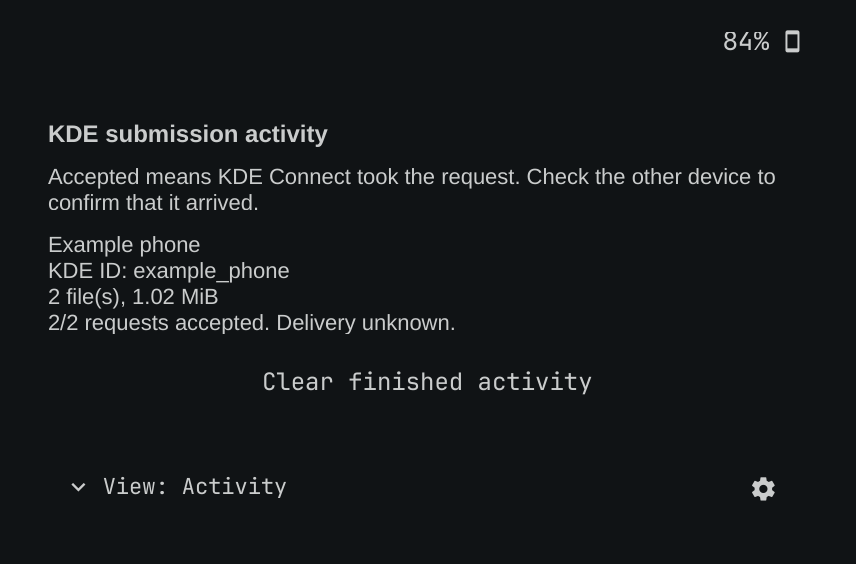
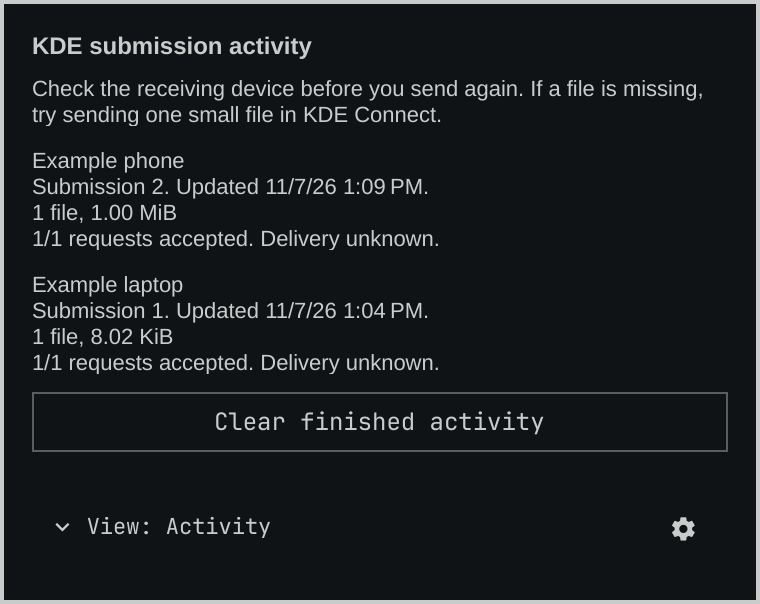
[docs] Make README task instructions easier to follow (#71)
* [docs] Make README task instructions easier to follow

* [docs] Link migration steps and clarify cancellation

* [docs] Put migration before the fresh install command

* [docs] Apply the Issue 9 review to the README

* [docs] Complete sharing steps and refresh Activity examples

* [docs] Show how to open the file chooser

---------

Changed region(s): [[0.0, 0.0, 1.0, 1.0], [0.0605, 0.844, 0.3632, 0.9043], [0.8776, 0.844, 0.9079, 0.9043]]

diff --git a/README.md b/README.md
@@ -1,171 +1,218 @@
 # Omaconnect KDE Plus
 
 Use [KDE Connect](https://kdeconnect.kde.org/) from the
-[Omarchy](https://omarchy.org/) bar. Send files, browse shared phone folders
-and put the quick actions you use most within reach.
+[Omarchy](https://omarchy.org/) bar. Send files. Open folders that your phone
+shares. Select the Quick actions for the bar menu.
 
 Omaconnect KDE Plus is a fork of
 [Jitendra Dara’s OmaConnect](https://github.com/jitendradara12/omaconnect).
-KDE Connect handles pairing and device communication.
+KDE Connect pairs devices and sends data between them.
 
-<img src="preview.png" width="380" alt="Saved screenshot review with an example phone and explicit Send">
+<img src="preview.png" width="380" alt="The Send window shows an example phone and the Send files button">
 
-Example devices, files and media are used in the screenshots.
-See the [screenshot gallery](docs/HELP.md#screenshots) for the open device dropdown,
-phone folders, the layout editor, Send, cancellation, activity, media and all four
-settings domains.
+The screenshots show example devices, files and media.
+Refer to the [screenshot gallery](docs/HELP.md#screenshots) for examples of the
+device list, file sharing, media controls, layout editor and settings.
 
 [![Functional checks](https://github.com/ryan-winkler/omaconnect-kde-plus/actions/workflows/validate.yml/badge.svg)](https://github.com/ryan-winkler/omaconnect-kde-plus/actions/workflows/validate.yml)
 [![CodeQL](https://github.com/ryan-winkler/omaconnect-kde-plus/actions/workflows/codeql.yml/badge.svg)](https://github.com/ryan-winkler/omaconnect-kde-plus/actions/workflows/codeql.yml)
 
 ## Install
 
-**Existing Plus through 0.1.2:** follow the [ID migration guide](docs/INSTALL.md#former-uppercase-development-id)
-before this fresh-install command. This preserves placement and settings and
-avoids a second active Plus copy.
+If you have Plus 0.1.2 or a version before 0.1.2, read the
+[ID migration guide](docs/INSTALL.md#former-uppercase-development-id) before
+you add Plus. This procedure keeps the bar position and the settings. It
+prevents a second active copy of Plus.
+
+If you have OmaConnect, read the
+[guide for an installed copy](docs/INSTALL.md#move-from-an-existing-installation)
+before you add Plus. The guide shows how to add Plus without the `--enable`
+option.
+
+For a new installation, install the packages.
 
 ```bash
 omarchy pkg add kdeconnect python python-gobject
+```
+
+Then use this command to add and enable Plus.
+
+```bash
 omarchy plugin add https://github.com/ryan-winkler/omaconnect-kde-plus.git --enable
 ```
 
-Open the new bar icon. If you need to pair a device, select **Pair in KDE Connect**
-or **Open KDE Connect**. If neither button is visible, open **KDE Connect** from
-the application launcher. Compare the verification key on both devices before accepting.
-Moving from the original OmaConnect? Read [install, update and recovery](docs/INSTALL.md)
-first and add Plus without `--enable`. The plugin ID is `omaconnect.plus`.
+Select the Plus icon in the bar. To pair a device, select **Pair in KDE Connect**
+or **Open KDE Connect**. If you cannot see these buttons, open **KDE Connect**
+from the application launcher. Compare the verification keys on the two
+devices. If the keys are the same, accept the pairing request.
+
+The Plus plugin ID is `omaconnect.plus`.
 
 ## Features
 
-- **Files.** Choose up to 100 local files in the desktop chooser. Check the
-  files and recipient, then select **Send files**. In **Plus settings → Quick
-  actions**, turn off **Review files before Send** to submit when you confirm
-  the selection in the chooser. Turn off **Use desktop file chooser** to use the
-  searchable Omarchy recent-file menu and **Image previews…**. Drops on Devices,
-  the bar icon or Send window always require review and use Copy.
-- **Phone folders:** select **Browse phone files** to open folders shared by KDE
-  Connect in your default file manager. Add it to Quick actions for direct access
-  from Devices. If KDE Connect reports that storage is unmounted, select
-  **Phone file settings in KDE** or retry **Browse phone files**. If the button
-  cannot open plugin settings, open KDE Connect settings manually. Several
-  advertised folders show a choice.
-- **Screenshots:** save a capture with Omarchy Screenshot, then use
-  **Review saved screenshot** to select one PNG. Check the file and recipient,
-  then select **Send files**. The action always opens review.
-- **Cancel:** stop pending file work from any daily view or the Send window.
-  After native acceptance, use KDE Connect's LAN transfer progress Cancel.
-  Bluetooth cancellation is not exposed by the current native sharing API.
-- **Honest activity:** “Request accepted” means KDE accepted the transfer;
-  delivery stays unknown. A batch keeps its reviewed recipient.
-- **Desktop notices:** see final file-request outcomes while Plus is closed.
-  Device names are omitted by default; enable them separately in Quick actions
-  settings. Native notification history and Do Not Disturb remain with Omarchy.
-- **Quick actions:** add, remove and reorder reviewed shortcuts, including media
-  transport, native KDE Connect routes and an optional Quick Share shortcut.
-- **Appearance:** choose a phone, computer, theme icon, symbol or local PNG/SVG,
-  and an alias per device. Preview before Apply.
-- **Daily layout:** a compact View menu, top or bottom placement, and optional
-  Send and Activity shortcuts. Switch devices in one dropdown. Collapse daily
-  sections. Open **Devices → Edit layout** to change visibility and position on
-  the actual sections, including hidden ones. Every view stays available.
-- **Language and launcher:** Plus follows Omarchy's language and reading direction.
-  Missing Plus text falls back to English. The optional
+- **Files.** Select the recipient in Devices. Expand **File sharing** or open
+  **Send**. Select **Choose files**. In the default settings, select up to
+  100 local files in the desktop file chooser. In the Send window, make sure
+  that the files and the recipient are correct. Select **Send files**.
+  If you set **Review files before Send** to Off, make sure that the recipient
+  is correct before you open the file chooser. Plus sends the files when you
+  accept the selection in the chooser. To use the Omarchy recent-file menu and
+  **Image previews…**, set **Use desktop file chooser** to Off. Both options
+  are in **Plus settings → Quick actions**.
+  You can drag and drop files on Devices, the bar icon or the Send window.
+  Plus always shows a review for dropped files. The source files stay in
+  the same locations.
+- **Phone folders.** Select **Browse phone files** to open folders from your
+  phone in the default file manager. To use the shortcut from Devices, add it to
+  **Quick actions**. If the phone shares more than one folder, Plus shows a list.
+  If Plus shows that the storage is unmounted, select **Phone file settings in KDE ↗**.
+  You can also select **Browse phone files** again. If the button cannot open
+  the settings, open the settings in KDE Connect. Refer to
+  [Browse phone files](docs/HELP.md#browse-phone-files) for the package and
+  storage instructions.
+- **Screenshots.** Add **Review saved screenshot** to **Quick actions**. Save an
+  image with Omarchy Screenshot. In Devices, select **Review saved screenshot**.
+  Select one PNG file. In the Send window, make sure that the file and the
+  recipient are correct. Select **Send files**.
+- **Cancel.** Use **Cancel** to stop queued file requests from a daily view or
+  the Send window. If the request was active when you selected **Cancel**, the
+  receiving device can receive the file. If KDE Connect shows a **Cancel**
+  button for the LAN transfer, select it. Refer to the
+  [task guide](docs/HELP.md) for the Bluetooth limits.
+- **Activity.** Activity shows **Request accepted** when KDE Connect accepts
+  the request. Make sure that the receiving device has the file. All file
+  requests in a batch use the same recipient.
+- **Desktop notices.** Plus shows file request results while the popup, Send
+  window and image preview are closed. In the default settings, the notices
+  show the results without device names. To show the names, enable the option in
+  **Quick actions**. Omarchy controls notification history and Do Not Disturb.
+- **Quick actions.** Add or remove shortcuts. Move shortcuts to change their
+  sequence. The shortcuts include media controls, KDE Connect functions and
+  an optional Quick Share shortcut.
+- **Appearance.** Select a phone icon, computer icon, theme icon, symbol or
+  local PNG or SVG file. You can set an alias for each device. See the preview.
+  To keep the change, select **Apply**.
+- **Daily layout.** You can put the View menu at the top or at the bottom.
+  You can add Send and Activity shortcuts. Select the device from the device
+  list. You can collapse the sections in Devices. Open **Devices → Edit layout**
+  to show, hide or move a section. You can move a hidden section.
+  You can open all views from the View menu.
+- **Language and launcher.** Plus uses the Omarchy language and reading
+  direction. If a Plus translation is missing, Plus shows the text in English.
+  The optional
   [application launcher](docs/INSTALL.md#optional-application-launcher)
   opens Devices, Send files or Activity.
-- **Settings:** Appearance, Connections, Quick actions and Device features, with
-  short help next to each control. Sections can be hidden or collapsed.
-- **Device features:** search installed native modules, change their local On/Off
-  state with readback, and open their native configuration forms. KDE Connect keeps
-  pairing, battery, notifications,
-  file browsing, media playback and player switching, remote commands, clipboard,
-  text, SMS and remote input.
-- **Network access:** optional Tailscale, MikroTik Back to Home and WireGuard
-  sections with short guides. Tailscale and WireGuard open their own panel or
-  profiles; Plus never connects a VPN itself. An optional card shows your Back
-  to Home helper's Automatic / On / Off mode and can ask that helper to change it.
-- **Private addresses:** approve LAN or VPN addresses per device, with opt-in
-  rediscovery. Existing KDE addresses are preserved.
-- **Syncthing notes:** optionally record that a KDE device and a Syncthing ID are
-  the same machine, pause or resume syncing with it, and open the existing Syncshell
-  panel.
+- **Settings.** The Plus settings have four sections. Each control has help.
+  - Appearance
+  - Connections
+  - Quick actions
+  - Device features
+- **Device features.** Find an installed KDE Connect module. Set it to On or
+  Off. Plus shows the state from KDE Connect. To configure the module, open
+  its native settings. KDE Connect supplies pairing, battery information,
+  notifications, file browsing and media controls, including player switching.
+  It also supplies remote commands, clipboard, text, SMS and remote input.
+- **Network access.** The optional Tailscale, MikroTik Back to Home and
+  WireGuard sections include guides. Select **Open Tailscale panel** for
+  Tailscale. Select **Open WireGuard profiles** for WireGuard.
+  These two controls do not start or stop VPN connections.
+  The optional Back to Home card shows the mode of its helper. You can use
+  the card to set the helper to Automatic, On or Off. The helper controls the
+  Back to Home connection.
+- **Private addresses.** Use **Saved addresses** to give approval for a LAN
+  or VPN address for each device. You can enable rediscovery. Plus keeps the
+  addresses that KDE Connect has before you save a new address.
+- **Syncthing notes.** You can add a local note with the KDE Connect device and
+  the Syncthing ID for the same computer. You can pause synchronization with
+  that computer. You can start synchronization with that computer again.
+  You can open the Syncshell panel.
 
-Read the [task guide](docs/HELP.md) for every control.
+Read the [task guide](docs/HELP.md) for information about the controls.
 
 ## Screenshots
 
-Select an image to view it at full size. The [complete gallery](docs/HELP.md#screenshots)
-also covers appearance, icon choices, section ordering, connections and native features.
+Select an image to see it at full size. The [gallery](docs/HELP.md#screenshots)
+also shows appearance, icon options, section sequence, connections and native
+device functions.
 
-| Open device dropdown | File review and persistent Send window |
+| Device list | File review in the Send window |
 | --- | --- |
-| [![Bar icon and opened device dropdown showing connected, offline and unpaired example devices](docs/screenshots/bar-dropdown.png)](docs/screenshots/bar-dropdown.png) | [![Persistent Send window reviewing two example files for the captured recipient](docs/screenshots/send-review.png)](docs/screenshots/send-review.png) |
+| [![The bar icon and the device list show connected, offline and unpaired devices](docs/screenshots/bar-dropdown.png)](docs/screenshots/bar-dropdown.png) | [![The Send window shows two files and the recipient](docs/screenshots/send-review.png)](docs/screenshots/send-review.png) |
 
-| Pending submission and Cancel | Quick actions sharing preferences |
+| Pending file request and Cancel | File sharing settings |
 | --- | --- |
-| [![In-progress file submission with Cancel and the persistent Cancel pending files control](docs/screenshots/pending-cancel.png)](docs/screenshots/pending-cancel.png) | [![Quick actions settings scrolled to desktop chooser and review-before-Send preferences](docs/screenshots/sharing-preferences.png)](docs/screenshots/sharing-preferences.png) |
+| [![A pending file request shows Cancel and Cancel pending files](docs/screenshots/pending-cancel.png)](docs/screenshots/pending-cancel.png) | [![Quick actions settings show the desktop file chooser and review options](docs/screenshots/sharing-preferences.png)](docs/screenshots/sharing-preferences.png) |
 
-| Recent files with type icons | Guided image previews |
+| Recent files with file type icons | Image previews |
 | --- | --- |
-| [![Native recent-file menu with file-type icons and an Image previews entry](docs/screenshots/recent-file-menu.png)](docs/screenshots/recent-file-menu.png) | [![Guided image preview with recipient, filename, Back and explicit Send or Review](docs/screenshots/image-previews.png)](docs/screenshots/image-previews.png) |
+| [![The Omarchy recent-file menu shows file type icons and the Image previews option](docs/screenshots/recent-file-menu.png)](docs/screenshots/recent-file-menu.png) | [![The image preview shows the recipient, file name, Back, and Send image or Review image](docs/screenshots/image-previews.png)](docs/screenshots/image-previews.png) |
 
 | Review a saved screenshot | Read the request result |
 | --- | --- |
-| [![Saved screenshot review with the selected recipient, PNG filename, Send files and Cancel](preview.png)](preview.png) | [![Activity shows one request accepted and delivery unknown](docs/screenshots/screenshot-activity.png)](docs/screenshots/screenshot-activity.png) |
+| [![The Send window shows a recipient, a PNG file, Send files and Cancel](preview.png)](preview.png) | [![Activity shows one accepted request and unknown delivery](docs/screenshots/screenshot-activity.png)](docs/screenshots/screenshot-activity.png) |
 
 ## Why Plus?
 
-OmaConnect already covers pairing, battery, clipboard, SMS, media and remote
-commands. Keep it if its workflow suits you. Plus adds:
+OmaConnect includes pairing, battery information, clipboard, SMS, media
+controls and remote commands. If OmaConnect has the functions you use, you can
+keep it.
 
-| If you need… | Plus adds… |
+| Function | What Plus adds |
 | --- | --- |
-| Your own bar and device look | Icon search, local images, aliases and preview. |
-| A choice of file workflows | Original file menu, desktop chooser, multiselect, drops and optional chooser review. |
-| Shortcuts that fit your tasks | Add, remove and reorder actions; Ring is optional. |
-| Control over popup navigation | Move the View row, choose direct shortcuts, and reorder or collapse daily sections. |
-| Every native feature in reach | Searchable installed modules, native On/Off readback and per-device configuration links. |
-| Your existing remote access | Separate Tailscale, Back to Home and WireGuard opt-ins. |
+| Bar and device icons | Icon search, local images, aliases and preview. |
+| File selection and review | Omarchy recent-file menu and desktop file chooser. Select multiple files. You can drag and drop files for review or set the chooser to show a review. |
+| Quick actions | Add, remove or move shortcuts. Ring is optional. |
+| Menu layout | Move the View row. Add Send and Activity shortcuts. Move or collapse the sections in Devices. |
+| Installed KDE Connect modules | Find modules. Set modules to On or Off. Open native settings for each device. |
+| Remote access | You can enable each of the Tailscale, Back to Home and WireGuard sections. |
 
 ## Requirements
 
-Omarchy, KDE Connect, Python 3 with PyGObject and a desktop file portal. The
-optional home-access card needs your own `remote-access-mode` helper (path
-configurable). Plus does not ship or install that helper. Opening Syncthing
-needs the `io.github.ilyazar.syncthing` plugin.
-The Quick Share shortcut opens RQuickShare (`r-quick-share` package); Plus does
-not speak Quick Share itself.
-Missing optional providers stay unavailable; Plus never installs them.
+Plus uses Omarchy, KDE Connect, Python 3 with PyGObject and a desktop file
+portal. The optional Back to Home card uses a `remote-access-mode` helper.
+You can set the path to the helper. The Syncshell panel uses the
+`io.github.ilyazar.syncthing` plugin. The Quick Share shortcut opens RQuickShare
+(`r-quick-share` package). RQuickShare uses the Quick Share protocol. Plus does
+not include the Back to Home helper. Plus does not install the optional tools.
 
 ## Privacy
 
-Appearance and address metadata stay in owner-only files. Typed text, Ping
-messages and the paths of files you send travel over stdin and D-Bus, never
-process arguments during native submission. The optional recent-file menu puts
-listed file paths and the recipient name in Omarchy’s process arguments. Other
-local accounts may be able to read those arguments. Keep the default desktop
-chooser on to avoid that exposure. Saved settings, such as a default Ping
-message, go through Omarchy, which briefly passes them in process arguments.
-Keep private text out of these saved settings. Files in shared locations are sent from a private snapshot. Activity
-keeps at most 50 summaries in memory, without paths. Media shows track text and
-controls but never loads provider-supplied album art.
+Plus keeps appearance and address data in files that only the owner can read.
+Plus uses stdin and D-Bus to send typed text, Ping messages and file paths to
+KDE Connect. During that operation, Plus does not put these values in process
+arguments.
+
+The optional recent-file menu puts the file paths it shows and the recipient
+name in Omarchy’s process arguments. On some systems, other local accounts can
+read these arguments. With the desktop file chooser, Plus does not put these
+values in Omarchy's process arguments. Omarchy also puts saved settings in
+process arguments for a short time. A default Ping message is one example.
+Do not put private text in these settings.
+
+For files in shared locations, Plus sends a private copy. Activity keeps up to
+50 summaries in memory. Plus does not put file paths in these summaries. Media
+shows only track text and controls.
 
 ## Contributing
 
-Code, docs, design, accessibility and device testing are all welcome. Read the
-[contribution guide](CONTRIBUTING.md) or choose a
+You can send changes to the code, documentation or design. You can also
+send accessibility changes or results from device tests. Read the
+[contribution guide](CONTRIBUTING.md). For a first change, select a
 [good first issue](https://github.com/ryan-winkler/omaconnect-kde-plus/issues?q=is%3Aissue+is%3Aopen+label%3A%22good+first+issue%22).
-Ask questions in [Discussions](https://github.com/ryan-winkler/omaconnect-kde-plus/discussions),
-see [SUPPORT.md](SUPPORT.md) for help, and report vulnerabilities privately through
-[SECURITY.md](SECURITY.md). Changes are listed in [CHANGELOG.md](CHANGELOG.md).
+Write questions in [Discussions](https://github.com/ryan-winkler/omaconnect-kde-plus/discussions).
+Read the [support guide](SUPPORT.md). To report a vulnerability privately,
+follow the [security policy](SECURITY.md).
+Refer to the [changelog](CHANGELOG.md) for release changes.
 
 ## Credits and license
 
-Plus starts from OmaConnect 1.5.0
+Plus is a fork of OmaConnect 1.5.0
 ([`71282d2`](https://github.com/jitendradara12/omaconnect/tree/71282d2042b1a1cda1cb1cac84251694eaabb7cb))
-and keeps its history and MIT license. [KDE Connect](https://kdeconnect.kde.org/)
-owns pairing, permissions and the device protocol. See
-[where to contribute upstream](CONTRIBUTING.md#share-reusable-improvements-upstream).
-The Back to Home card keeps its
+and keeps its Git history and MIT license.
+[KDE Connect](https://kdeconnect.kde.org/) pairs devices, controls permissions
+and supplies the device protocol. Read the
+[upstream contribution instructions](CONTRIBUTING.md#share-reusable-improvements-upstream).
+The Back to Home card keeps the
 [Bananet](https://plugins.omarchy.org/plugin.html?id=banan.bananet) notice in
-`BthControlCard.qml`. This is an independent community project, not an official
-KDE or Omarchy one. See [AUTHORS.md](AUTHORS.md) and [LICENSE](LICENSE).
+`BthControlCard.qml`. This is a community project. KDE and Omarchy
+do not supply it. Refer to [AUTHORS.md](AUTHORS.md) and [LICENSE](LICENSE).
